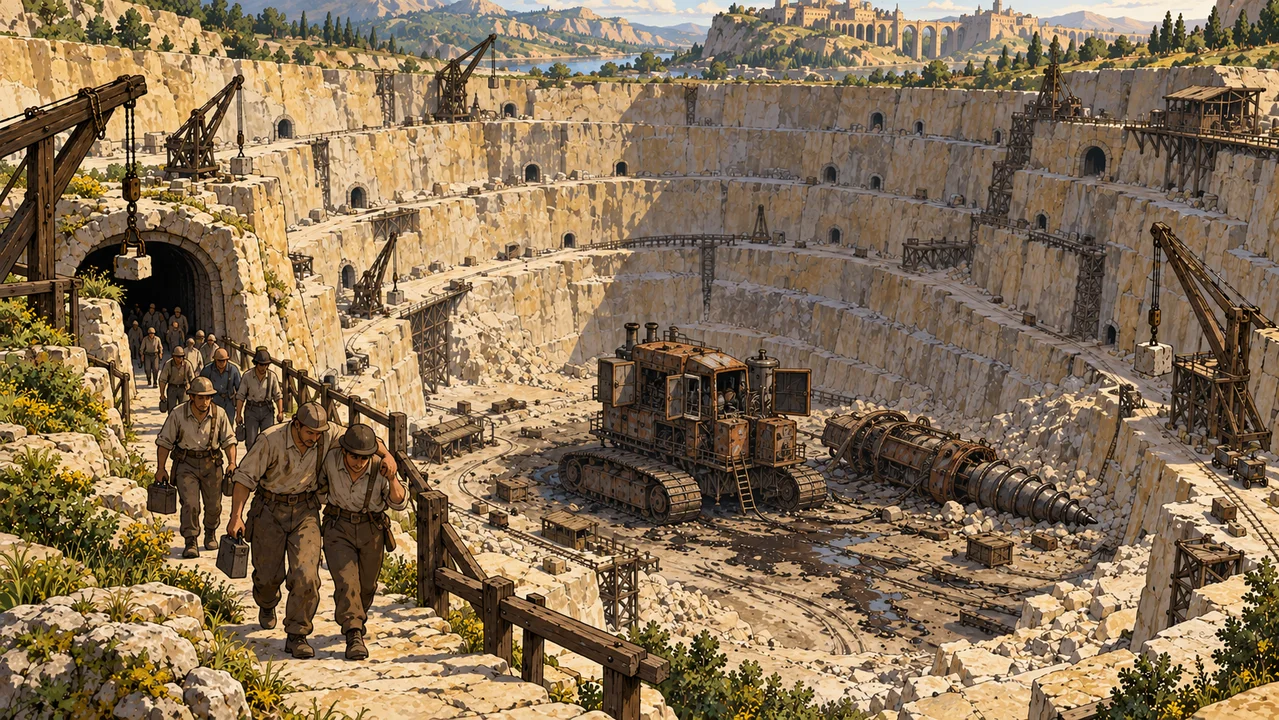
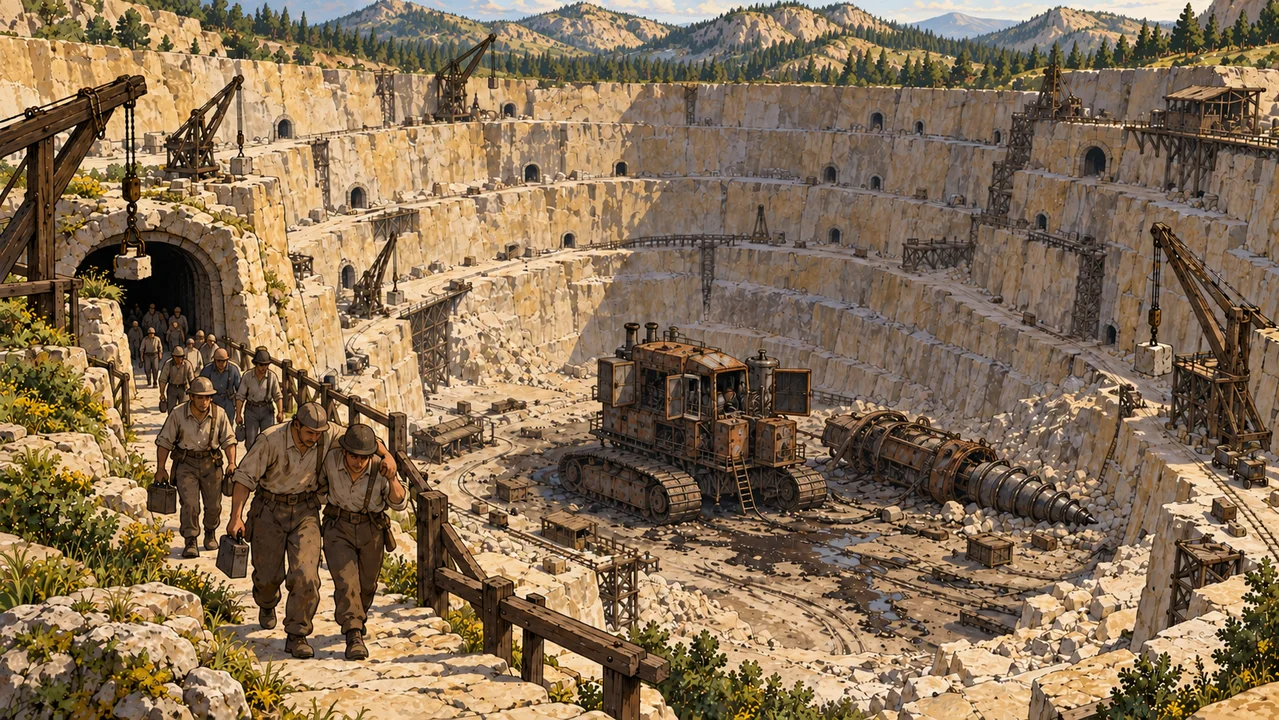
Align cutscene architecture with the world and document scale review

diff --git a/docs/art/interludes.md b/docs/art/interludes.md
@@ -11,6 +11,27 @@ under public/art/interludes/. No atlas, baked lettering or animation. The player
 shows the whole frame above DOM captions. Generated PNGs are production inputs,
 not shipped. Existing art and device budgets remain unchanged.
 
+## Visual review standard
+
+The owner's follow-up requires plausible scale as well as a consistent style.
+Review full-size art and the shipped WebP, including the whole image in tablet
+landscape and portrait. Check people against nearby doors, railings, chairs,
+bowls and cart wheels; distinguish foreground perspective from actual size.
+The driller is barn-sized, not a hand tool or a city-sized superweapon. Match its
+cabin, two treads and drill across the intact and disabled views. The detached
+arm belongs on the ground only after victory.
+
+Inspect faces, visible fingers and limbs, feet meeting paths, supported stairs,
+crane cables, wheel/axle attachments and repeated objects. Avoid fused bodies,
+extra anatomy, floating props, impossible intersections, decorative fake text,
+uniformly oversized furniture and unrelated architecture. Regenerate a specific
+defect rather than disguising it with blur, cropping or camera movement.
+
+World continuity: Ba Dan retains its timber, stone and restrained tiled roofs.
+The coastal outpost uses original East Asian inspired military architecture,
+not European church towers. Quarry skylines remain limestone and pine hills.
+These are illustrative views of the same places, not exact navigation maps.
+
 ## New scene prompts
 
 ### road
@@ -54,3 +75,17 @@ Create a NEW single cinematic film keyframe, widescreen16:9. First image is the 
 Reference: generated shot 1.
 
 NEW cinematic closing keyframe for a hand-drawn fantasy RPG prologue, widescreen16:9. Reference image defines the SAME limestone quarry, green pines and warm color world, now the camera is up the road looking at the quarry entrance. Eye-level view from a pine-lined stone path: two tall pale limestone cut walls form a narrow opening with a large CLOSED weathered wooden gate across it, dark iron crossbraces. An empty track leads the eye to the gate center-right. One simple weathered green cloth pennant on a pole at upper right, hanging still. Two SMALL distant adult guard silhouettes with ordinary spears, rust-brown and muted green layered uniforms, stand on a timber guard platform above the gate. Under the left gate post a single iron fire brazier with a SMALL flat stylized orange flame. Great terraces and a stationary timber lifting crane behind. Quiet, guarded, mysterious rather than evil fortress. Warm low afternoon sun crosses the path, cool teal shadows under the trees; subtle very light dusty air. Carefully composed empty foreground for slow camera approach. Painterly animation background with dark brown ink contours and clear flat shadow shapes, restrained green ochre parchment rust palette, 2D television animation feeling consistent with reference. No close characters or famous designs, no text, signs, captions, logos, borders, photographs, 3D, bloom, blur or lens effects. Beautiful original village quarry environment.
+
+## Lore and continuity correction prompts
+
+### bay
+
+Edit only the distant outpost buildings on the right headland. Preserve exactly the bay, horizon, foreground pines and rocks, twilight light, image size, perspective and quiet scale. Replace Mediterranean fortress/church architecture with an ORIGINAL East-Asian-inspired early-industrial coastal garrison: low dark volcanic-stone defensive terraces, simple warm ochre plaster barracks, dark timber pillars, restrained curved red tile roofs with broad eaves, ONE squat watch platform with a tiled roof. It is a modest decommissioned military outpost, not a sprawling palace, pagoda city or fantasy castle. Remove church-like bell towers and European crenellated towers. Doors about two meters tall, each storey about three meters, coherent stairs and railings, same consistent far-away perspective. Windows and a few lanterns give restrained warm gold light; do not make giant lanterns or glowing roof edges. No emblems, words, recognizable franchise building or canon characters. Retain the exact clean brown ink, cel shading and painted environment style. No other changes.
+
+### quarry
+
+Precise background-only edit. Preserve the entire foreground and quarry: EXACT same industrial tracked driller, drill arm, oil, treads, cranes, gallery openings, wooden ledges, limestone walls, perspective and all relative scales. Change ONLY the distant skyline along the uppermost edge: remove the European castle/city/aqueduct buildings beyond the quarry rim and replace them with matching limestone hills and pine forest. No new structures or objects. Keep the quarry and machine completely unchanged. Same widescreen full-bleed hand-inked cel-shaded painting, same daylight and palette, no text or borders.
+
+### rescue
+
+Precise background-only edit. Preserve ALL workers with their current normal adult human proportions, hands and feet, the foreground gallery, path and railing, the EXACT disabled driller with detached drill arm on the ground, and the entire quarry with its cranes, stone ledges and galleries. Change ONLY distant skyline along the uppermost edge: remove European castle/city/aqueduct buildings beyond quarry rim, replace them with limestone hills and pine forest. No other changes. Keep all object scales, distances, perspective and geometry unchanged. Same widescreen brown-ink cel-shaded painting and afternoon light. Do not add humans, machinery, roofs, symbols, text or borders.

diff --git a/docs/story-cutscenes.md b/docs/story-cutscenes.md
@@ -5,6 +5,13 @@ reveal ladder, and A World Worth Wandering companion draft 1.0. The current
 repository implements the quarry adventure only. This document separates the
 scenes wired into that adventure from placements for later missions.
 
+The owner's explicit lore direction also governs every later scene: preserve
+elemental limits, the era's established technology, the agency and limits of
+spirits, and the themes of balance, responsibility, compassion and community.
+Allow humor, hospitality and ordinary work alongside danger. Our people and
+plots remain original; no new Avatar powers, canon cameos, borrowed plot
+solutions or spirit-energy superweapons are introduced for spectacle.
+
 ## In the playable game
 
 | Story moment                             | Treatment                                                                              | Why here                                              | Continuity                                                                                   |
